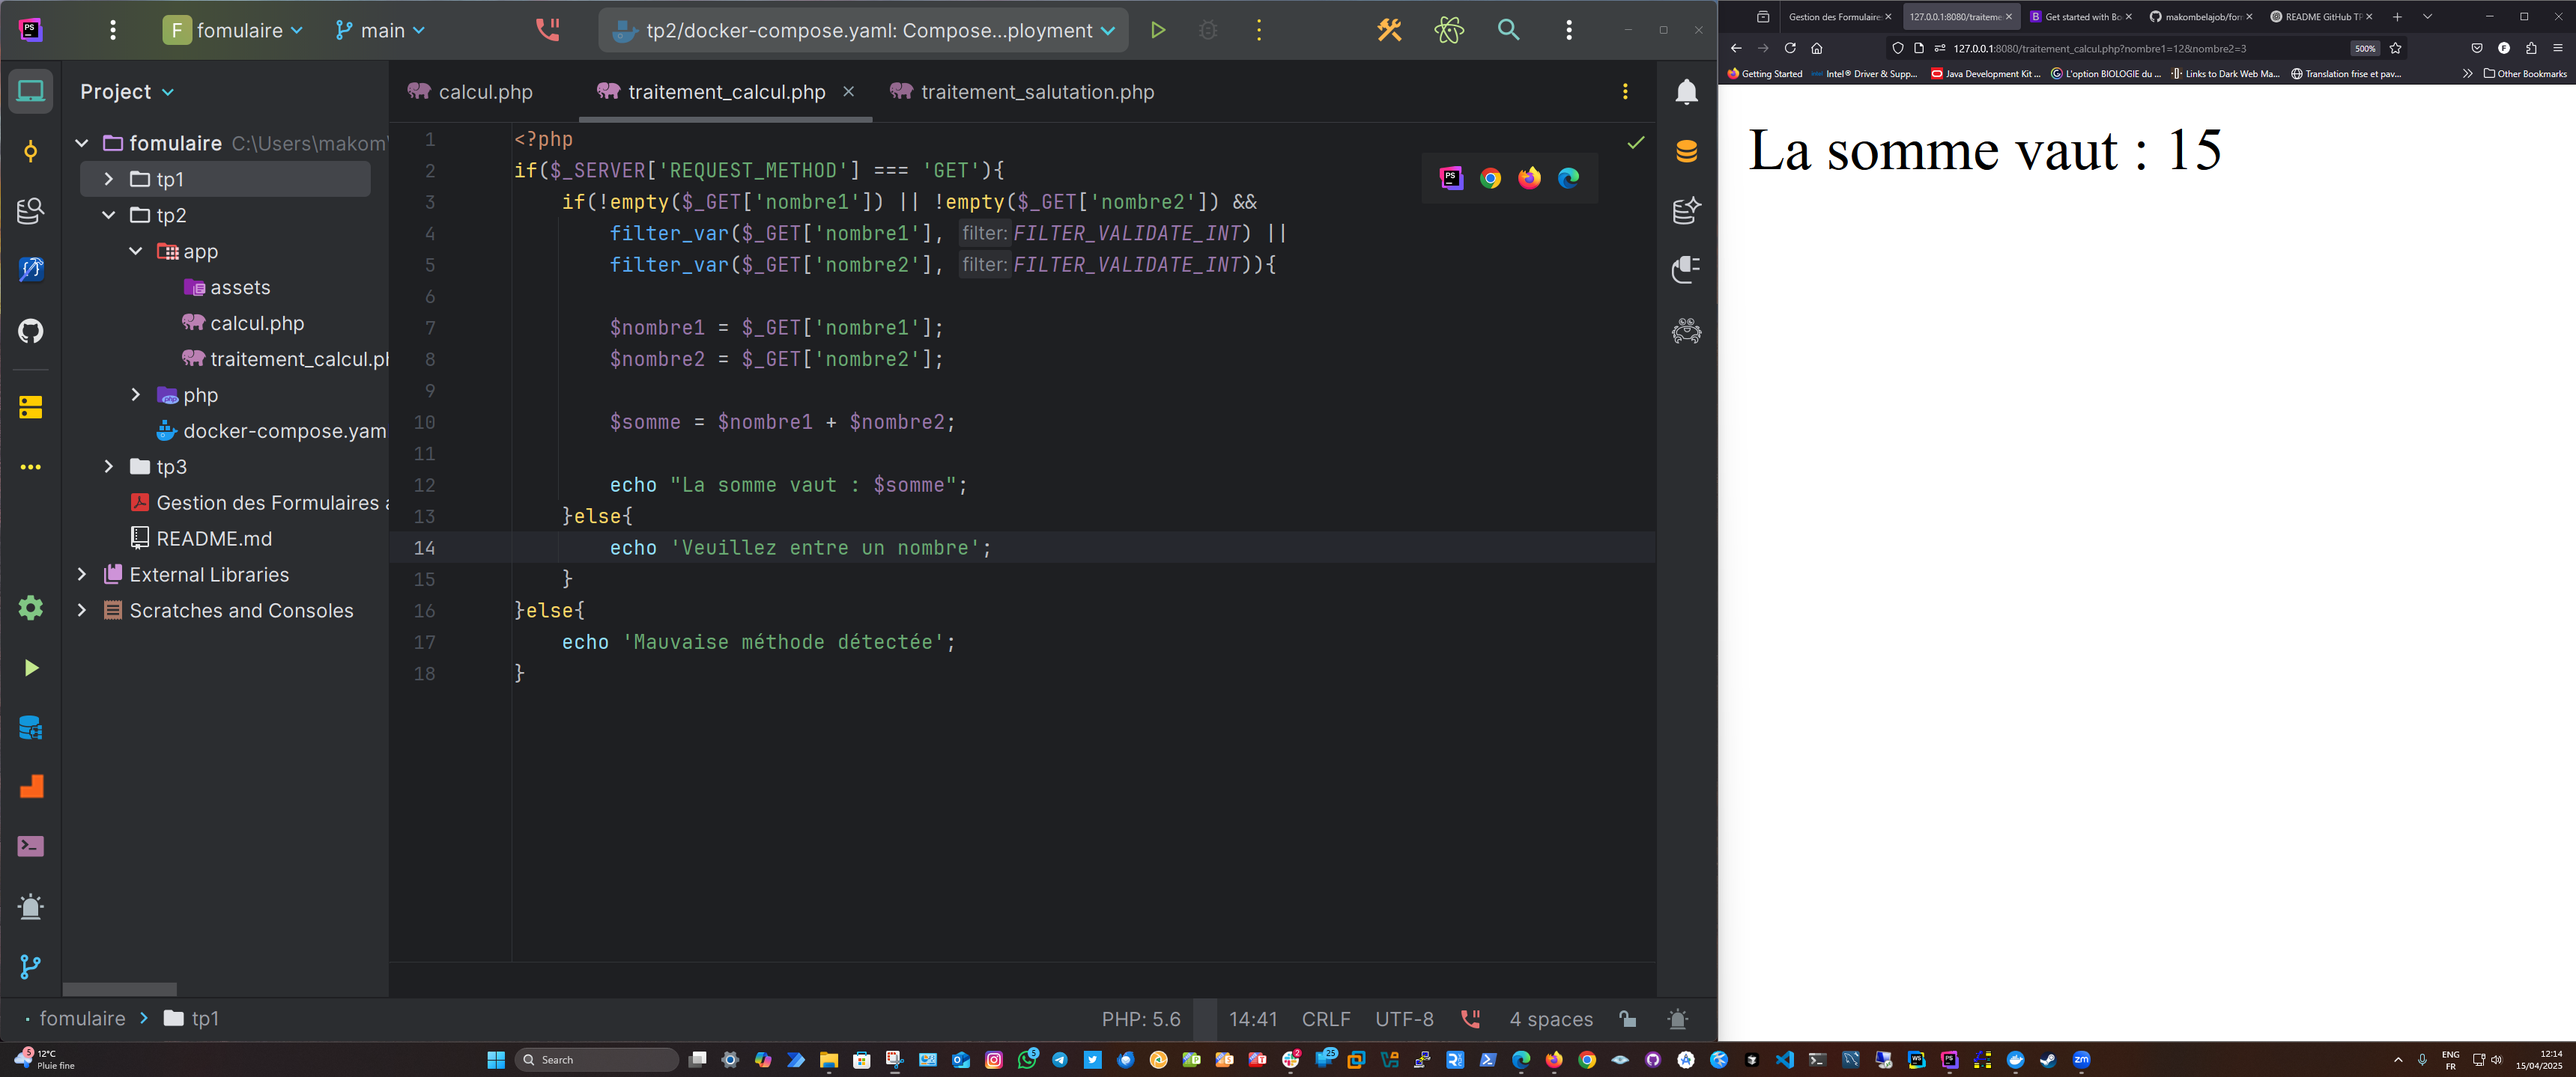
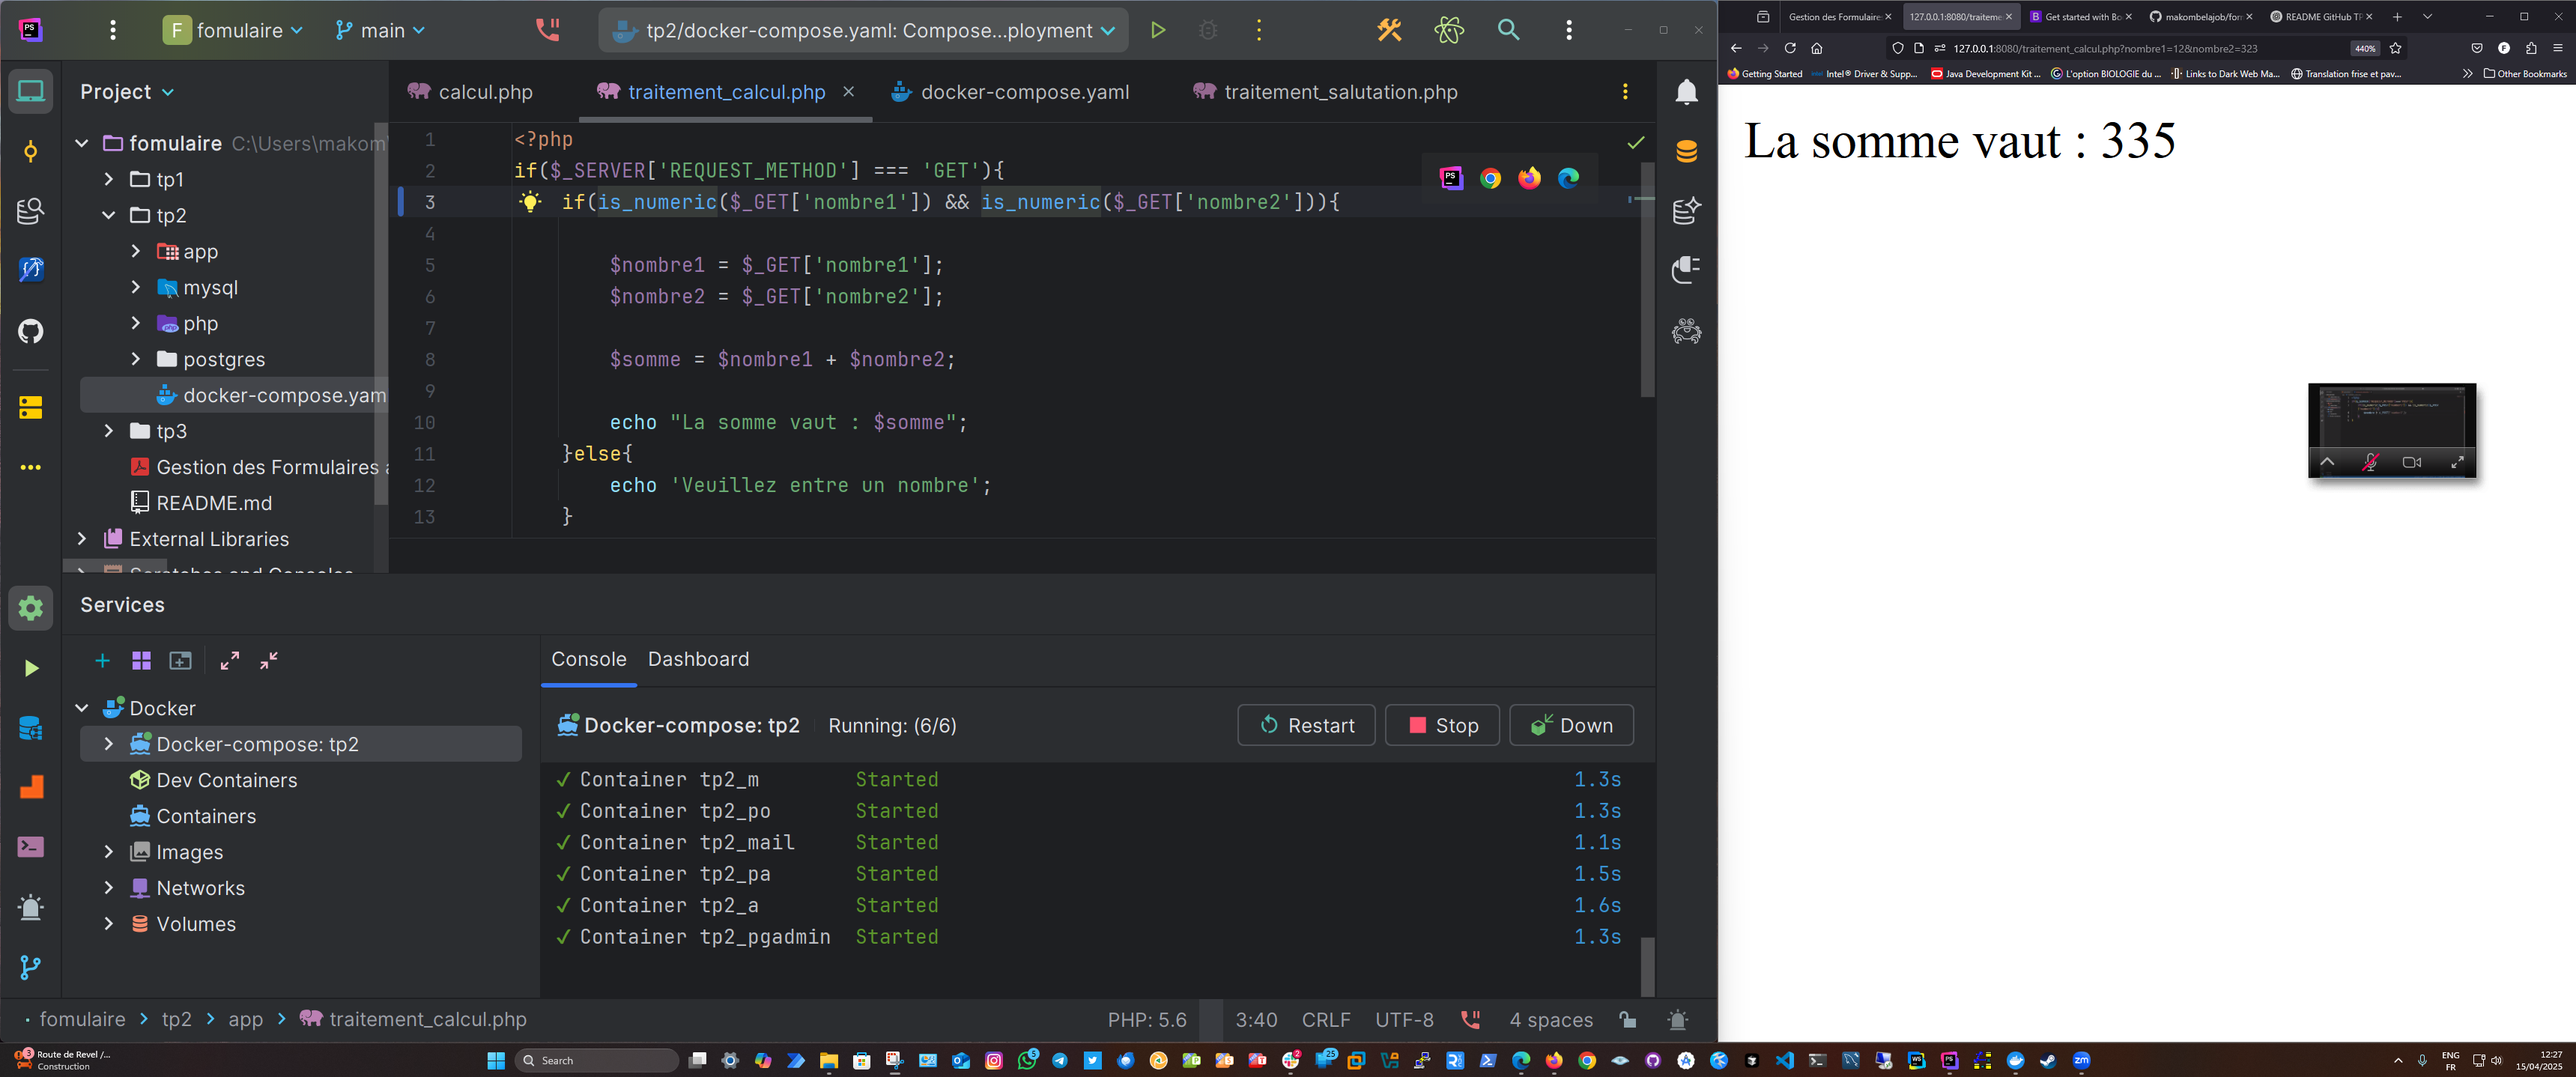
screenshots updated

diff --git a/tp2/app/traitement_calcul.php b/tp2/app/traitement_calcul.php
@@ -1,8 +1,6 @@
 <?php
 if($_SERVER['REQUEST_METHOD'] === 'GET'){
-    if(!empty($_GET['nombre1']) || !empty($_GET['nombre2']) &&
-        filter_var($_GET['nombre1'], FILTER_VALIDATE_INT) ||
-        filter_var($_GET['nombre2'], FILTER_VALIDATE_INT)){
+    if(is_numeric($_GET['nombre1']) && is_numeric($_GET['nombre2'])){
 
         $nombre1 = $_GET['nombre1'];
         $nombre2 = $_GET['nombre2'];
